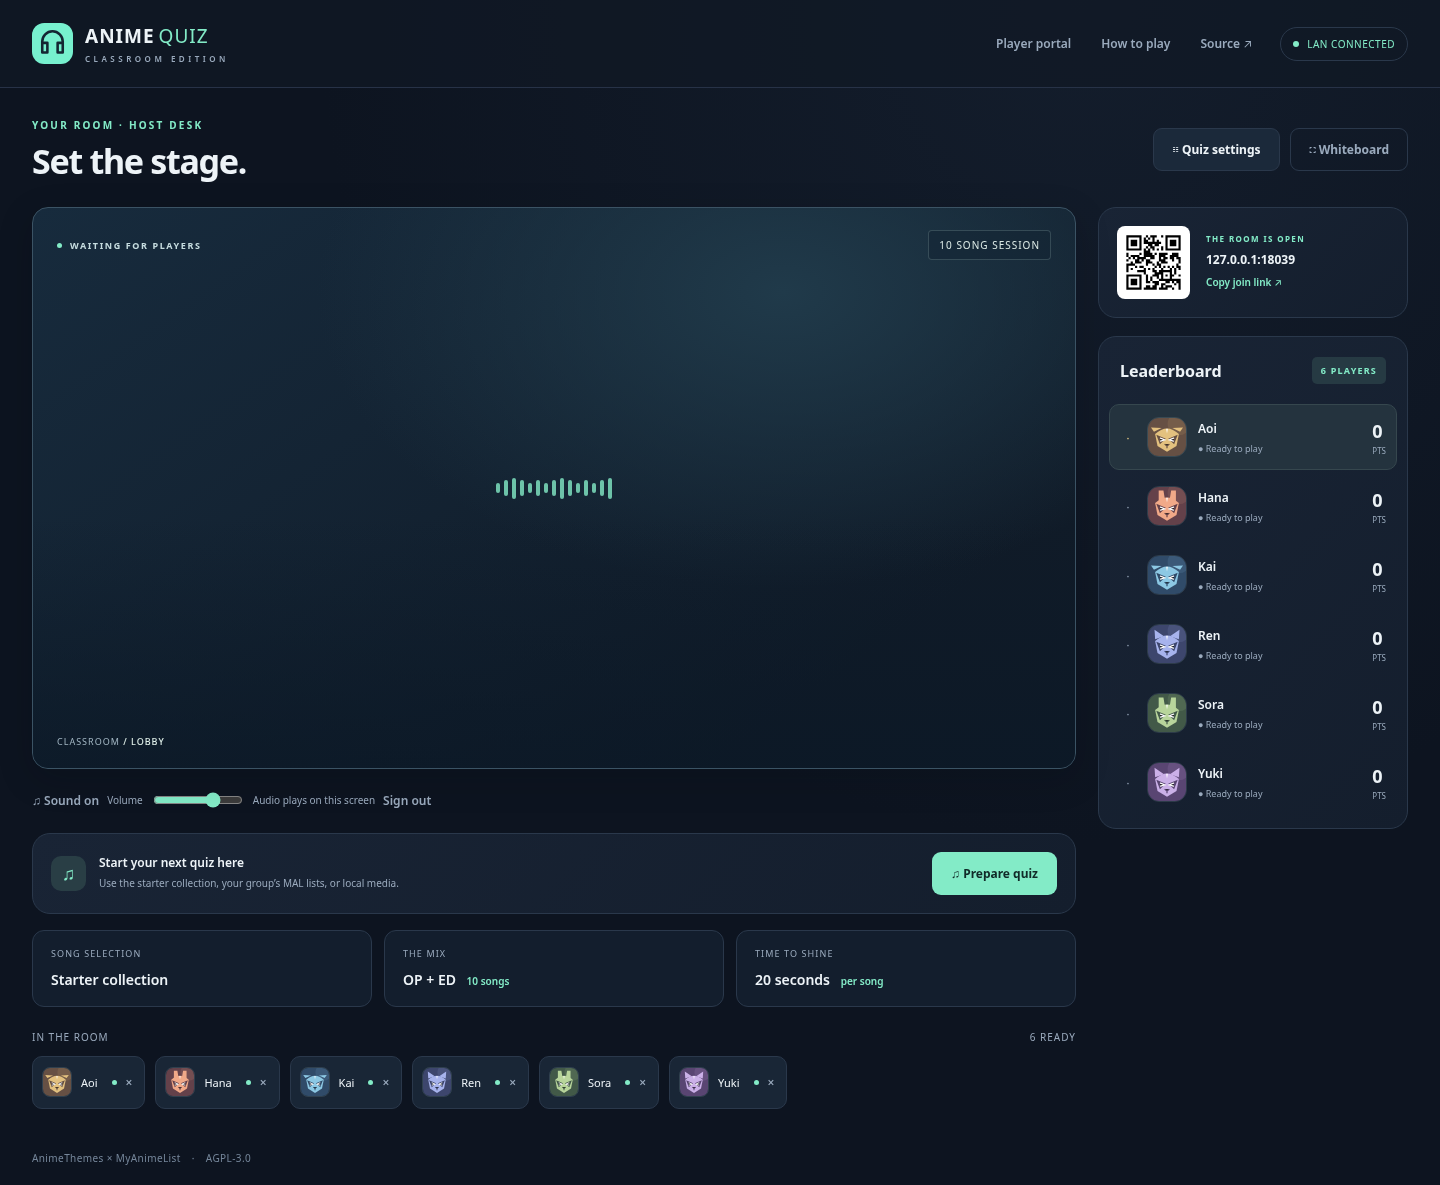
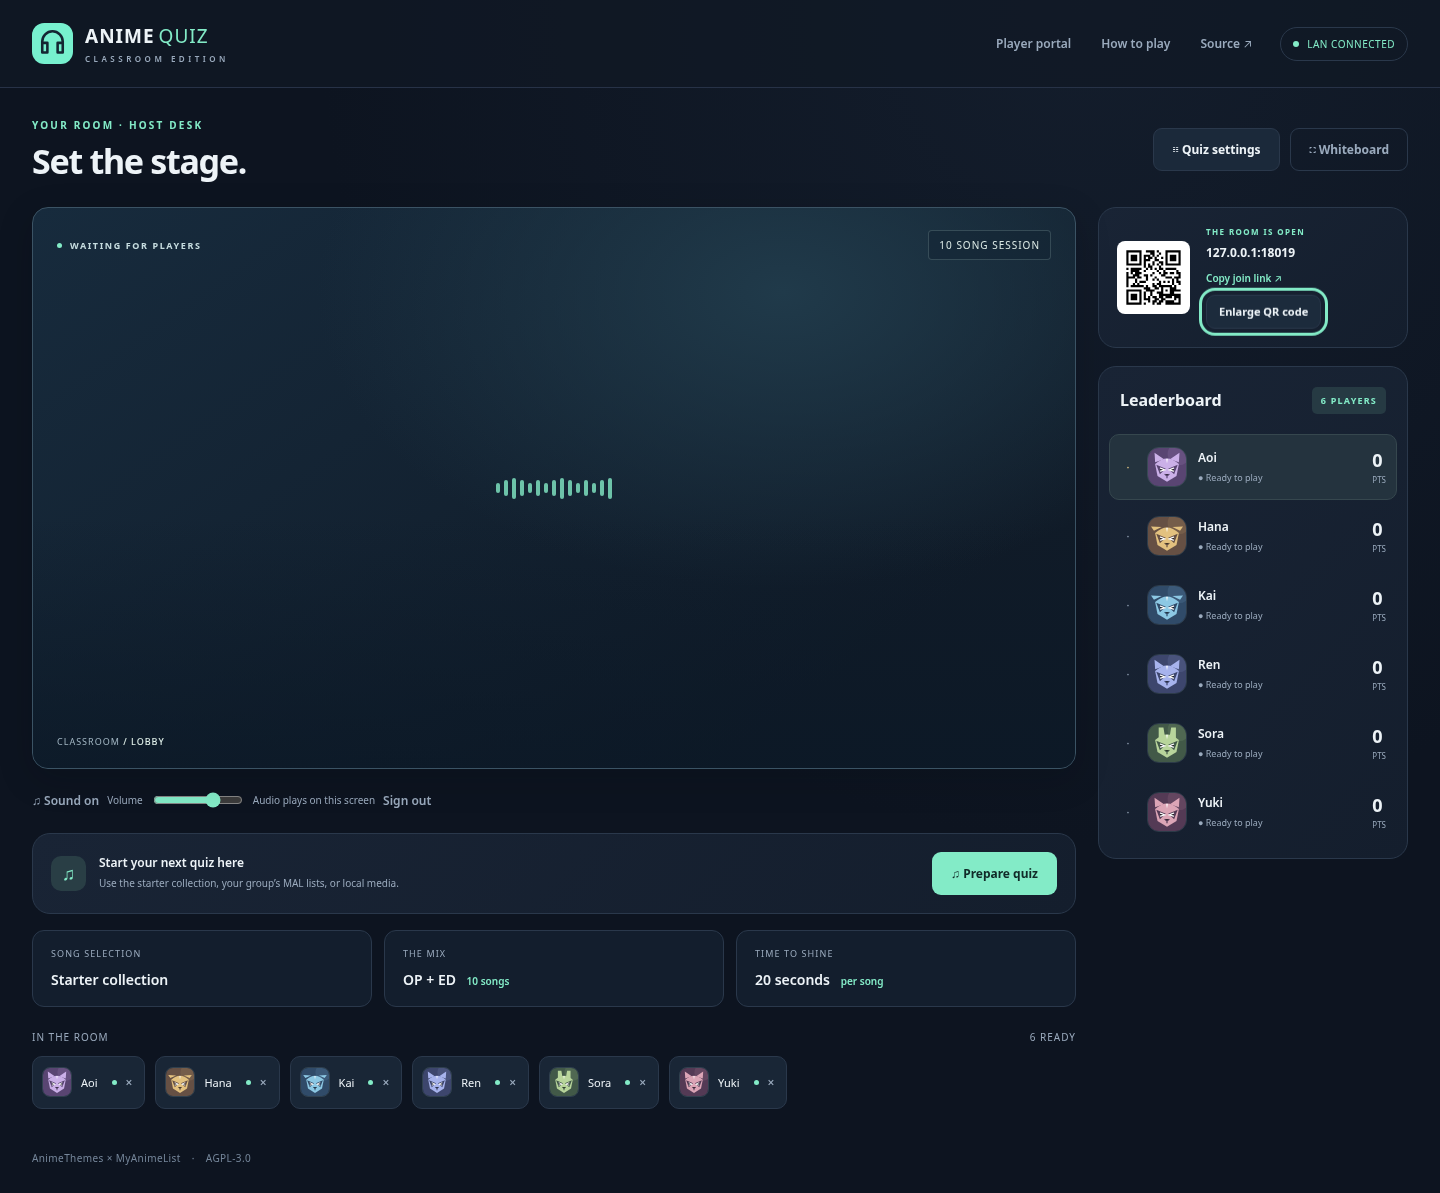
Add fullscreen waiting-room QR display with shrink control

diff --git a/classroom/static/app.js b/classroom/static/app.js
@@ -116,7 +116,9 @@ function renderRoom() {
   const s = state, inLobby = ['lobby','loading','ready'].includes(s.phase), me = s.players.find(p => p.id === s.me?.id);
   const subtitle = s.phase === 'finished' || inLobby ? '' : 'Listen closely. You know this one.';
   html('#page-heading', `<div><span class="eyebrow">${hostView ? 'YOUR ROOM · HOST DESK' : 'YOUR ROOM · PLAYER SEAT'}</span><h1>${s.phase === 'finished' ? 'That’s a wrap.' : inLobby ? (hostView ? 'Set the stage.' : 'You’re in good company.') : `Song ${s.round} <span class="muted">/ ${s.total}</span>`}</h1>${subtitle ? `<p>${subtitle}</p>` : ''}</div>${hostView ? `<div class="heading-tools"><button class="button secondary" id="settings-button" ${!inLobby && s.phase !== 'finished' ? 'disabled' : ''}>☷ Quiz settings</button><button class="button ghost" id="whiteboard-button">⛶ ${document.body.classList.contains('whiteboard') ? 'Exit whiteboard' : 'Whiteboard'}</button></div>` : `<button class="profile-mini" id="profile-button">${avatar(s.me.avatar)}<span><strong>${esc(s.me.name)}</strong><small>Edit profile ↗</small></span></button>`}`);
-  html('#join-panel', `<div class="qr"><img src="/api/qr" alt="Scan to join this classroom"></div><div><span class="eyebrow">THE ROOM IS OPEN</span><div class="join-address">${esc(s.joinUrl.replace(/^https?:\/\//,''))}</div><button class="copy-link" id="copy-link">Copy join link ↗</button></div>`);
+  html('#join-panel', `<div class="qr"><img src="/api/qr" alt="Scan to join this classroom"></div><div><span class="eyebrow">THE ROOM IS OPEN</span><div class="join-address">${esc(s.joinUrl.replace(/^https?:\/\//,''))}</div><div class="join-actions"><button class="copy-link" id="copy-link">Copy join link ↗</button>${hostView && inLobby ? '<button class="button secondary small" id="enlarge-qr" aria-haspopup="dialog" aria-controls="qr-dialog">Enlarge QR code</button>' : ''}</div></div>`);
+  $('#large-qr-address').textContent = s.joinUrl.replace(/^https?:\/\//,'');
+  if (!inLobby && $('#qr-dialog').open) $('#qr-dialog').close();
   $('#board-count').textContent = `${s.players.length} PLAYERS`;
   html('#board', s.players.length ? s.players.map(p => `<div class="player-row ${p.id === s.me?.id ? 'me' : ''}"><span class="rank">${inLobby ? '·' : String(p.rank).padStart(2,'0')}</span>${avatar(p.avatar)}<div class="player-identity"><div class="player-name">${esc(p.name)}${p.id === s.me?.id ? ' <span class="muted">(you)</span>' : ''}</div><div class="player-detail">${p.spectator ? 'Spectating · next game' : !p.online ? 'Reconnecting…' : inLobby ? p.ready ? '● Ready to play' : 'In the room' : p.result ? p.result.correct ? '✓ Correct answer' : '— Not this time' : p.submitted ? '✓ Answer received' : 'Listening…'}</div></div><div class="player-score">${p.score}<small>PTS</small></div></div>`).join('') : '<div class="empty-board"><div class="empty-icon">♧</div><p>Players will appear here when they join.<br>Share the link or scan the QR code.</p></div>');
   const labels = {lobby:'WAITING FOR PLAYERS',loading:'BUILDING YOUR PLAYLIST',ready:'READY TO PLAY',buffering:'GETTING THE MUSIC READY',guess:'GUESS THE ANIME',reveal:'THE REVEAL',finished:'FINAL STANDINGS'};
@@ -353,6 +355,9 @@ document.addEventListener('click', async event => {
       picker.querySelectorAll('button').forEach(b=>{b.classList.toggle('selected',b===button);b.setAttribute('aria-pressed',String(b===button));});
     }
     if (button.id==='help-button') $('#help-dialog').showModal();
+    if (button.id==='enlarge-qr' && hostView && state?.host && ['lobby','loading','ready'].includes(state.phase)) {
+      if (!$('#qr-dialog').open) $('#qr-dialog').showModal();
+    }
     if (['settings-button','settings-button-inline'].includes(button.id)) openSettings();
     if (button.id==='profile-button') openProfile();
     if (button.id==='ready-button') await playerAction('ready');

diff --git a/classroom/templates/classroom/index.html b/classroom/templates/classroom/index.html
@@ -22,6 +22,7 @@
   <dialog id="help-dialog"><div class="dialog-heading"><div><span class="eyebrow">THE RULES</span><h2>Listen. Recognize. Reveal.</h2></div><button class="icon-button" data-close aria-label="Close help">×</button></div><ol class="how-list"><li><b>Join the same network</b><p>Open the address on the board. Create a player name and passcode to reuse your profile next time.</p></li><li><b>Listen to the classroom speakers</b><p>The host plays the music. Enter the anime title on your own device; you can revise it until time runs out.</p></li><li><b>See the answer together</b><p>Each correct anime earns one point. English, romaji, and known alternative titles are accepted. The host can review an answer.</p></li><li><b>Make it your playlist</b><p>Add a public MAL username to your profile. The host can build a quiz from everyone's lists, the starter collection, or local files.</p></li></ol><p class="subtle">Arriving mid-game? You'll spectate until the next quiz. Your passcode belongs to this classroom server.</p></dialog>
   <dialog id="settings-dialog"></dialog>
   <dialog id="profile-dialog"></dialog>
+  <dialog id="qr-dialog" class="qr-dialog" aria-labelledby="qr-heading"><div class="qr-expanded"><div class="qr-expanded-heading"><h2 id="qr-heading">Scan to join this classroom</h2><button class="button secondary" data-close autofocus>Shrink QR code</button></div><div class="qr-expanded-code"><img src="/api/qr" alt="Scan to join this classroom"></div><p id="large-qr-address" class="qr-expanded-address"></p></div></dialog>
   <dialog id="confirm-dialog"><div class="dialog-heading"><h2>Reset this room?</h2><button class="icon-button" data-close aria-label="Cancel">×</button></div><p>The current quiz and scores will be cleared. Saved player profiles will stay.</p><div class="dialog-actions"><button class="button secondary" data-close>Keep playing</button><button class="button danger" id="confirm-reset">Reset room</button></div></dialog>
 </body>
 </html>

diff --git a/classroom/static/style.css b/classroom/static/style.css
@@ -631,6 +631,18 @@ footer b {
   padding:4px 0
 }
 
+.join-panel > div:last-child {
+  min-width:0
+}
+
+.join-actions {
+  display:flex;
+  align-items:center;
+  flex-wrap:wrap;
+  gap:6px 12px;
+  margin-top:4px
+}
+
 .leaderboard-list {
   padding:0 10px 10px;
   max-height:450px;
@@ -1530,6 +1542,73 @@ dialog {
 dialog::backdrop {
   background:#050c17bb;
   backdrop-filter:blur(5px)
+}
+
+dialog.qr-dialog {
+  inset:0;
+  width:100vw;
+  max-width:none;
+  height:100vh;
+  height:100dvh;
+  max-height:none;
+  margin:0;
+  padding:clamp(16px,3vmin,36px);
+  border:0;
+  border-radius:0;
+  background:var(--bg);
+  overflow:hidden
+}
+
+html:has(#qr-dialog[open]) {
+  overflow:hidden
+}
+
+.qr-expanded {
+  height:100%;
+  display:grid;
+  grid-template-rows:auto minmax(0,1fr) auto;
+  gap:clamp(12px,2vmin,24px)
+}
+
+.qr-expanded-heading {
+  display:flex;
+  align-items:center;
+  justify-content:space-between;
+  flex-wrap:wrap;
+  gap:12px
+}
+
+.qr-expanded-heading h2 {
+  font-size:clamp(18px,2.5vmin,28px)
+}
+
+.qr-expanded-heading .button {
+  flex:none
+}
+
+.qr-expanded-code {
+  min-height:0;
+  container-type:size;
+  display:grid;
+  place-items:center
+}
+
+.qr-expanded-code img {
+  display:block;
+  width:min(100cqw,100cqh);
+  height:min(100cqw,100cqh);
+  padding:min(7cqw,7cqh);
+  background:white;
+  border-radius:12px
+}
+
+.qr-expanded-address {
+  text-align:center;
+  font-size:clamp(14px,2.5vmin,30px);
+  font-weight:700;
+  line-height:1.3;
+  overflow-wrap:anywhere;
+  color:var(--mint)
 }
 
 .dialog-heading {

diff --git a/README.md b/README.md
@@ -36,6 +36,8 @@ Keep the terminal open. It prints the **player URL** and a private **host key**.
 5. Players submit an anime title. They can revise it until the server closes the round. One correct answer earns one point, regardless of speed.
 6. The video and answer appear, scores update, and the host can review answers before continuing. Enable **Play each revealed video in full from the start** in quiz settings to restart at 0:00 and play through to the end. **Whiteboard** opens a larger, fullscreen-friendly display.
 
+While waiting for players, click **Enlarge QR code** beside the host's join link to fill the display with the code and join address. **Shrink QR code** or **Escape** returns to the room. The enlarged view also works in Whiteboard mode and closes automatically when the quiz starts. [Preview the enlarged QR view](docs/host-qr-expanded.png).
+
 Full-video reveals override the reveal timer. With **Advance automatically** enabled, the host screen reports when playback ends and the next song starts then; otherwise, the host chooses **Next song**. Pause/resume works during the full reveal. Only the host can skip, void, advance, or finish a song, including through the API; players have no skip or advance controls. The host can advance early during a full reveal. Leave this setting off to keep the normal reveal timer.
 
 Use **Results CSV** at the end to save standings and round-by-round answers. **Play again** keeps the group and their profiles.
@@ -62,7 +64,7 @@ By default, HTTP requests must use a literal IP address or `localhost`. To use a
 | Settings | 1–100 songs, OP/ED selection, MAL statuses, 5–90 second guesses, timed or full-video reveals, independent NSFW/spoiler filters, random clip starts, opt-in openings.moe pools/fallback, optional automatic advance |
 | Guessing | Live, scrollable title suggestions from cached MAL entries, keyboard/touch selection, alternative English/romaji/Japanese names where available, case/accent/punctuation normalization, revisions until the deadline |
 | Scoring | Server-controlled deadlines, one point per correct anime, tied ranks, private guesses before reveal, host corrections, no-score skips |
-| Host display | Audio-only guessing, video reveal, live leaderboard, QR join link, volume, pause/resume, whiteboard mode |
+| Host display | Audio-only guessing, video reveal, live leaderboard, expandable QR join code, volume, pause/resume, whiteboard mode |
 | Recovery | Saved submitted answers on refresh; interrupted games pause on server restart; unfinished preparation can be retried |
 | Results | Persistent current game and completed-game records; CSV export of the current game |
 
